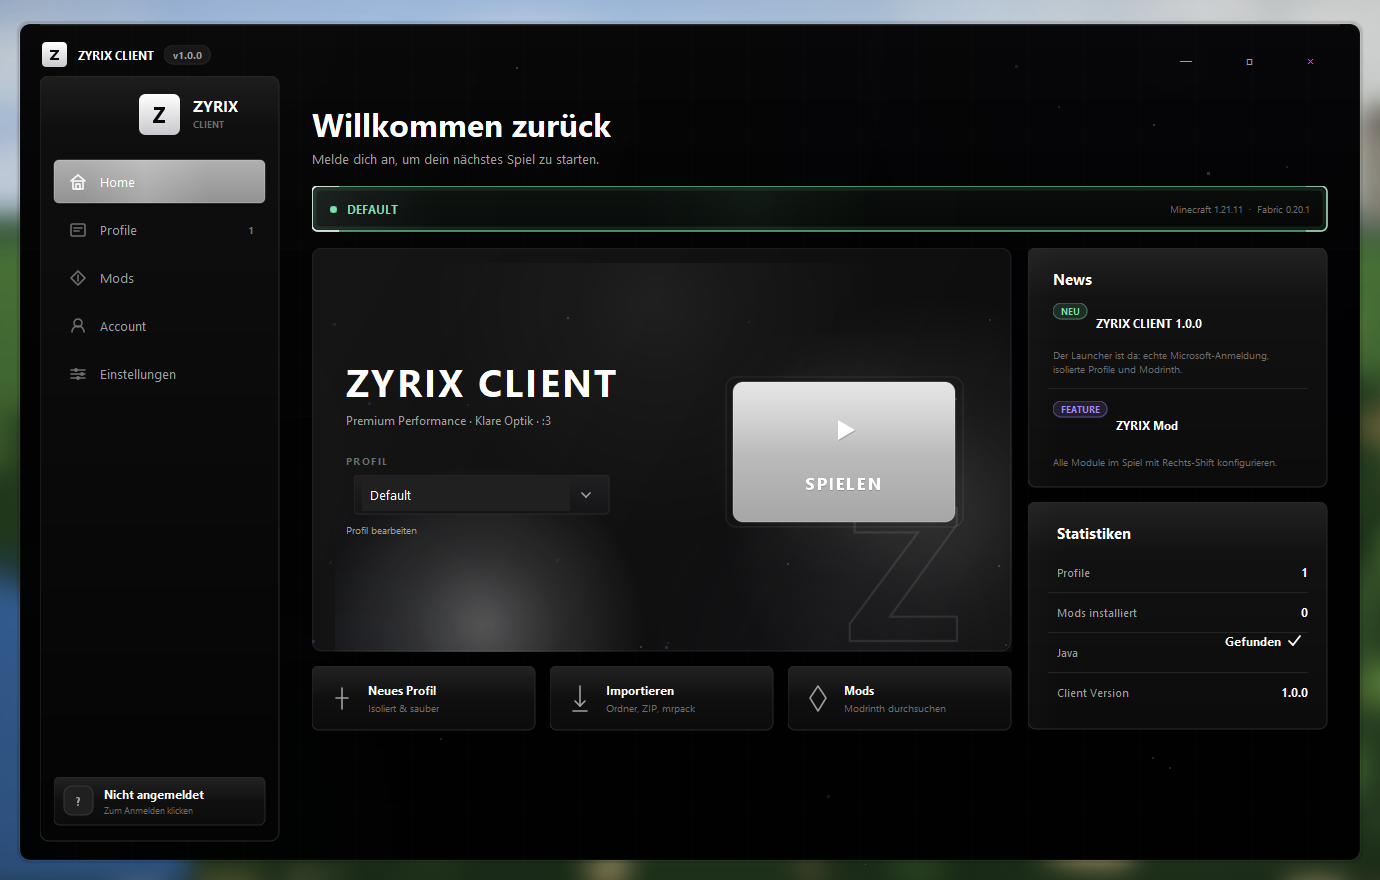
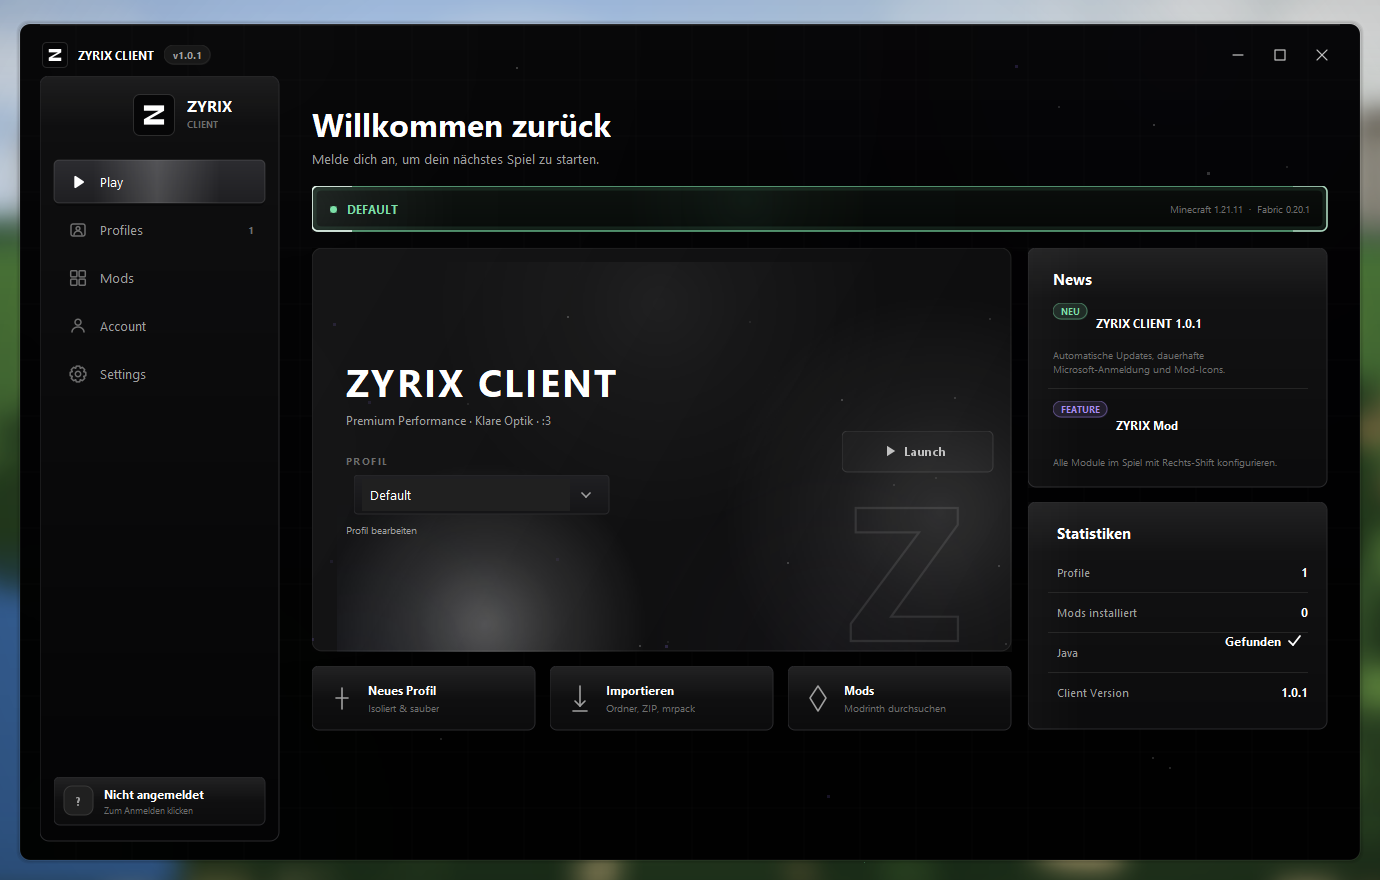
Website und Update-Kanal 1.0.1

diff --git a/index.html b/index.html
@@ -74,7 +74,7 @@
         <ul class="hero-meta reveal" style="--d:240ms">
           <li><span class="check" aria-hidden="true"></span> Windows 10/11</li>
           <li><span class="check" aria-hidden="true"></span> Kein Java nötig</li>
-          <li><span class="check" aria-hidden="true"></span> 50,2 MB</li>
+          <li><span class="check" aria-hidden="true"></span> 53,7 MB</li>
         </ul>
       </div>
 
